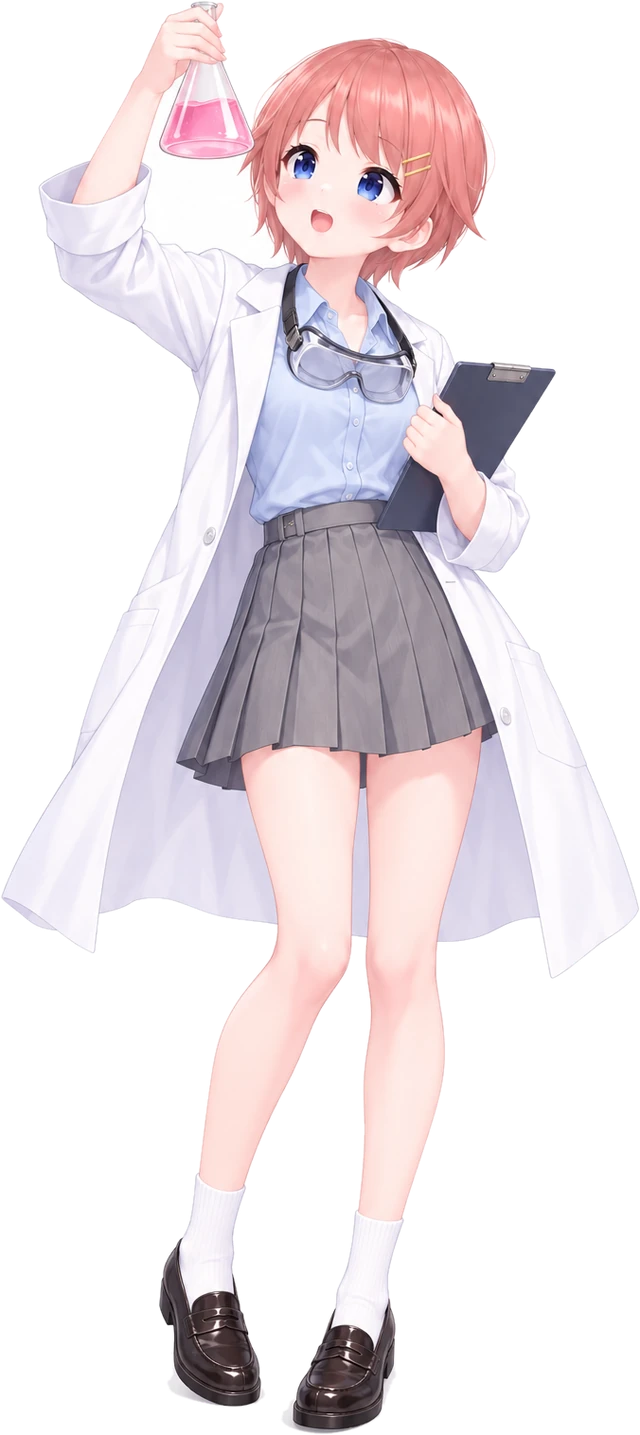
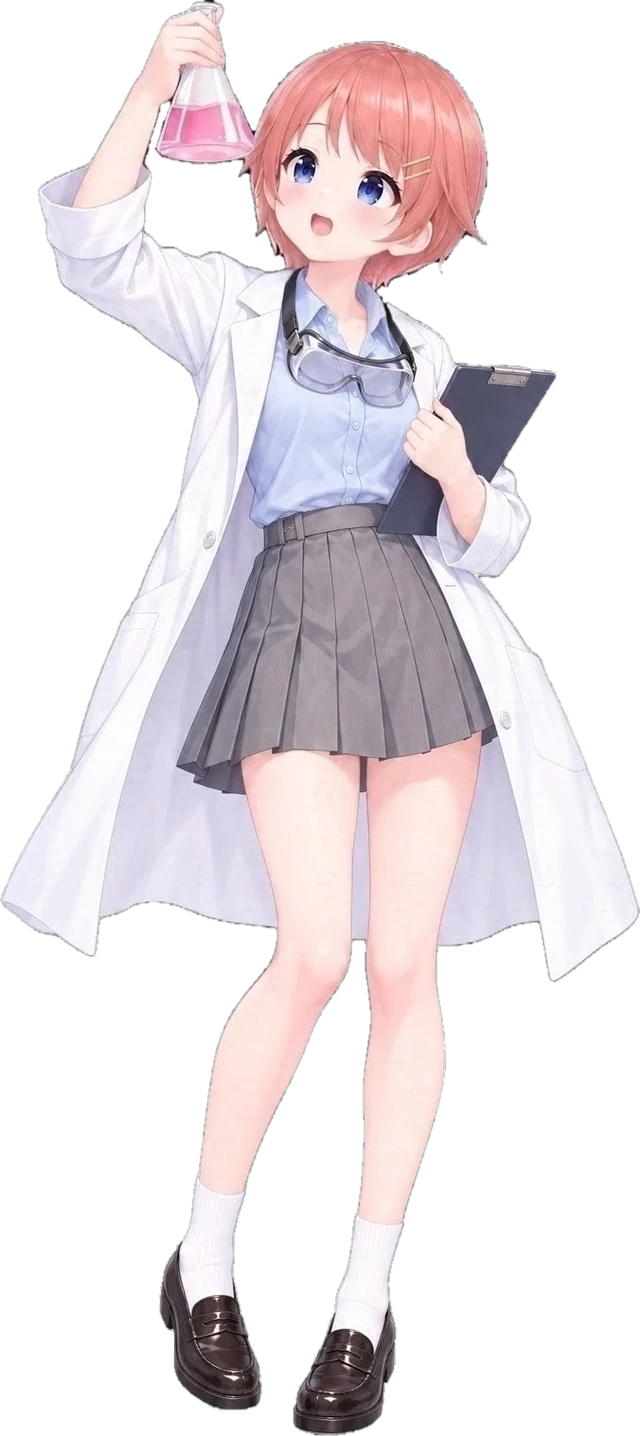
About me: transparent illustration swap and new intro text with achievements (#29)
Claude-Session: https://claude.ai/code/session_01LWFpnsW5a2a5dw8DzCJiQe

diff --git a/components/about.tsx b/components/about.tsx
@@ -42,14 +42,20 @@ export function About(){
     <div role="group" aria-label="表示言語 / Language" className="flex shrink-0 rounded-full border border-border p-0.5 text-xs">{(['ja','en'] as const).map(l=><button key={l} type="button" lang={l} aria-pressed={lang===l} onClick={()=>{setLangState(l);saveLang(l);}} className={'rounded-full px-2.5 py-1 transition-colors '+(lang===l?'bg-primary text-primary-foreground font-semibold':'text-muted-foreground hover:text-foreground')}>{l==='ja'?'日本語':'EN'}</button>)}</div></div></header>
 
   <section className="grid gap-8 py-10 md:grid-cols-[minmax(0,320px)_1fr] md:items-center">
-   <div className="mx-auto w-full max-w-[300px] md:max-w-none"><div className="relative"><div aria-hidden="true" className="absolute inset-x-6 bottom-0 top-16 rounded-[2rem]" style={{background:'radial-gradient(closest-side,rgba(94,234,196,.22),transparent)'}}/><img src={BASE+'kafka-about.webp'} alt={tr('白衣を着てフラスコを掲げる山辺カフカのイラスト','Illustration of Yamabe Kafka in a lab coat holding up a flask')} width={640} height={1435} className="relative mx-auto h-auto w-auto max-h-[560px] md:max-h-[620px] max-w-full"/></div></div>
+   <div className="mx-auto w-full max-w-[300px] md:max-w-none"><div className="relative"><div aria-hidden="true" className="absolute inset-x-6 bottom-0 top-16 rounded-[2rem]" style={{background:'radial-gradient(closest-side,rgba(94,234,196,.22),transparent)'}}/><img src={BASE+'kafka-about.webp'} alt={tr('白衣を着てフラスコを掲げる山辺カフカのイラスト','Illustration of Yamabe Kafka in a lab coat holding up a flask')} width={640} height={1436} className="relative mx-auto h-auto w-auto max-h-[560px] md:max-h-[620px] max-w-full"/></div></div>
    <div>
     <p className="text-primary text-sm tracking-widest">ABOUT ME</p>
     <h1 className="mt-2 text-3xl sm:text-4xl font-bold">{tr('山辺カフカ','Yamabe Kafka')}</h1>
     <p className="mt-1 text-sm text-muted-foreground">{tr('VTuber／カードゲーマー／記事ライター','VTuber / Card gamer / Article writer')}</p>
-    <div className="mt-6 space-y-3 leading-7 text-[15px]">
-     <p>{tr('見つけてくれて、ありがとう♡ ゲームも、日々のことも。カフカのあれこれ、ここからどうぞ。','Thank you for finding me ♡ Games, everyday life — everything about Kafka starts here.')}</p>
-     <p>{tr('マジック：ザ・ギャザリングのリミテッドが好きで、17Landsの公開データを使った発売前予測ツール「サキヨミ™」を作っています。カードを見て、発売前にどれくらい勝てそうかを研究するのがカフカの実験です。','I love Magic: The Gathering Limited, and I build Sakiyomi™, a pre-release forecasting tool based on 17Lands public data. Studying how well a card might perform before release is Kafka\'s experiment.')}</p>
+    <div className="mt-6 leading-7 text-[15px]">
+     <p>{tr('強く楽しくカードゲームを遊ぶコツをお伝えします✨','I share tips for playing card games strongly and joyfully ✨')}</p>
+     <h2 className="mt-5 text-lg sm:text-xl font-bold">{tr('実績','Achievements')}</h2>
+     <ul className="mt-2 space-y-1 list-disc pl-5 marker:text-primary">{[
+      [tr('MTG Arena Open インマネ 8回 ($14,000)','MTG Arena Open: 8 times in the money ($14,000)')],
+      [tr('MTGA 予選ウィークエンド Day2進出 9回','MTGA Qualifier Weekend: reached Day 2 nine times')],
+      [tr('MTG JapanOpen2024 Top16','MTG JapanOpen 2024: Top 16')],
+      [tr('S-Trad ARENA 第2回優勝/第3回3位','S-Trad ARENA: 1st place (2nd event) / 3rd place (3rd event)')],
+     ].map(([t])=><li key={t}>{t}</li>)}</ul>
     </div>
     <div className="mt-6 flex flex-wrap gap-2.5">{([['YouTube',LINKS.youtube],['X',LINKS.x],['note',LINKS.note],['lit.link',LINKS.litlink]] as const).map(([n,u])=><ExtLink key={n} href={u} className="inline-flex items-center gap-1.5 rounded-full border border-primary/50 px-4 py-1.5 text-sm text-primary hover:bg-primary/10">{n}<ArrowUpRight className="size-3.5"/></ExtLink>)}</div>
    </div>
